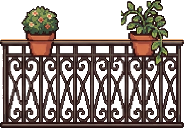
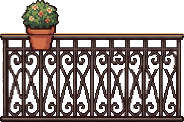
Estabilización partes 1 y 2: Valeria delante de Felipe con su silueta, y el balcón sin maceta bajo Felipe
- Capas: PERSONAJES (solo humanos) sube a 2, por encima de JUEGO; TRAS_FELIPE para la estela.
- Pieza SiluetaTapada: contorno de 1 px de Felipe solo donde Valeria lo tapa (clip_children).
- Balcón: la baranda queda con una sola maceta; Felipe se sienta a su lado (Nivel1.ASIENTO_BARANDA).
- Se quita la planta oscura y borrosa del primer plano (sin arte nítido para reemplazarla).
- Capturas: pruebas/capturas_estabilizacion.gd. Arreglo de prueba inestable del ocio (sentado).

Claude-Session: https://claude.ai/code/session_01WbR3FeT1XB9M7gFpgwas9J

diff --git a/siete-vidas/herramientas/preparar_arte_nivel.py b/siete-vidas/herramientas/preparar_arte_nivel.py
@@ -110,9 +110,10 @@ PATAS = {"zapatero": (0.80, 38)}
 
 # Rectángulos a borrar después de escalar (x0, y0, x1, y1 en la imagen final): el pasamanos trae dibujado el contorno
 # de la escalera (una línea vertical y la del piso) que en el juego no calza con los peldaños de atrás.
-# La baranda trae tres macetas encima: se borra la del medio para que Felipe se siente en la baranda sin meterse en
-# ella (M6 de la revisión 2); RELLENOS repone la baranda que tapaba la maceta.
-BORRAR = {"escalera_baranda": [(0, 80, 4, 217), (0, 202, 186, 217)], "baranda": [(70, 0, 121, 36)]}
+# La baranda trae tres macetas encima: se borran la del medio y la de la derecha para que Felipe se siente al lado de
+# la única que queda, no encima (M6 de la revisión 2 y plan de estabilización 2026-10-20); RELLENOS y PARCHES reponen
+# la baranda que tapaban.
+BORRAR = {"escalera_baranda": [(0, 80, 4, 217), (0, 202, 186, 217)], "baranda": [(70, 0, 121, 36), (118, 0, 184, 36)]}
 
 # Rellenos después de escalar: (x0, y0, x1, y1, desde, periodo) repite en ese rectángulo las columnas que van de
 # `desde` a `desde + periodo` (un tramo limpio del mismo dibujo).
@@ -120,7 +121,7 @@ RELLENOS = {"baranda": [(70, 36, 121, 62, 58, 18)]}
 
 # Parches después de escalar: (x0, y0, x1, y1, dx) copia en ese rectángulo los pixeles que están dx a la izquierda
 # en la imagen original.
-PARCHES = {}
+PARCHES = {"baranda": [(118, 36, 178, 75, 52)]}
 
 # Valeria (tanda 3B): poses a una sola escala (de pie mide 200 px, 3 Felipes). Su caminar es de SpriteCook
 # (revisión 3, B2: las piernas sí alternan), 8 cuadros de 224 × 224 ya a escala 1:1.
@@ -492,6 +493,9 @@ def main():
             for x0, y0, x1, y1, dx in PARCHES[nombre]:
                 a[y0:y1, x0:x1] = original[y0:y1, x0 - dx:x1 - dx]
             final = Image.fromarray(a, "RGBA")
+        if nombre == "baranda":
+            # Sin la maceta de la derecha, arriba quedan filas vacías: se recorta al borde opaco (M1).
+            final = final.crop((0, final.getbbox()[1], final.width, final.height))
         final.save(DESTINO / f"{nombre}.png")
     for nombre, (hoja, indice, tamano, suavizado) in MOSAICOS.items():
         if hoja not in hojas:

diff --git a/siete-vidas/juego/README.md b/siete-vidas/juego/README.md
@@ -81,5 +81,5 @@ ffmpeg -framerate 30 -i /tmp/video/c%08d.png -i /tmp/video/c.wav -vf scale=1280:
 - Cada cambio de movimiento debe pasar `prueba_movimiento.gd`; si se agrega una mecánica, se agrega su comprobación.
 - **El salto del juego debe seguir las reglas de la ficha de concepto** (fases y cuadros en las constantes `CUADRO_*` de `felipe.gd`): sube estirado, arriba recoge las patas, cae en picada con la pose "caer" (delanteras estiradas hacia el suelo), toca primero con las delanteras (pose de contacto), después baja la parte de atrás y se aplasta, con polvo y estela. `prueba_movimiento.gd` comprueba estas reglas; no las quites.
 - **Arte provisional:** el escenario es una prueba de concepto dibujada con código. El arte final se cambia después en `FondoApartamento` y en el arte de cada nivel (`ArteNivel1`), sin tocar colisiones ni lógica.
-- **Parallax:** el fondo va en capas `Parallax2D` definidas en `FondoApartamento.CAPAS` (cielo 0.05, ciudad lejana 0.2, ciudad cercana 0.45, pared y juego 1.0, primer plano 1.3). `prueba_escenario.gd` comprueba que cada capa siga a la cámara en su proporción y que todos los muebles se puedan alcanzar saltando; al mover muebles, debe seguir pasando.
+- **Parallax:** el fondo va en capas `Parallax2D` definidas en `FondoApartamento.CAPAS` (cielo 0.05, ciudad lejana 0.2, ciudad cercana 0.45, pared y juego 1.0; sin primer plano borroso desde el 2026-10-20). `prueba_escenario.gd` comprueba que cada capa siga a la cámara en su proporción y que todos los muebles se puedan alcanzar saltando; al mover muebles, debe seguir pasando.
 - **Proporciones:** Felipe mide 67 px de alto (`Felipe.ESCALA_SPRITE` = 0.72) y el mundo va a 1,21 px por cm con muebles de medidas reales (ver los comentarios de `Nivel1.PIEZAS`). Si cambia el tamaño de Felipe, escalar en la misma proporción su colisión, cámara, velocidades y gravedad. `prueba_movimiento.gd` comprueba su altura.
